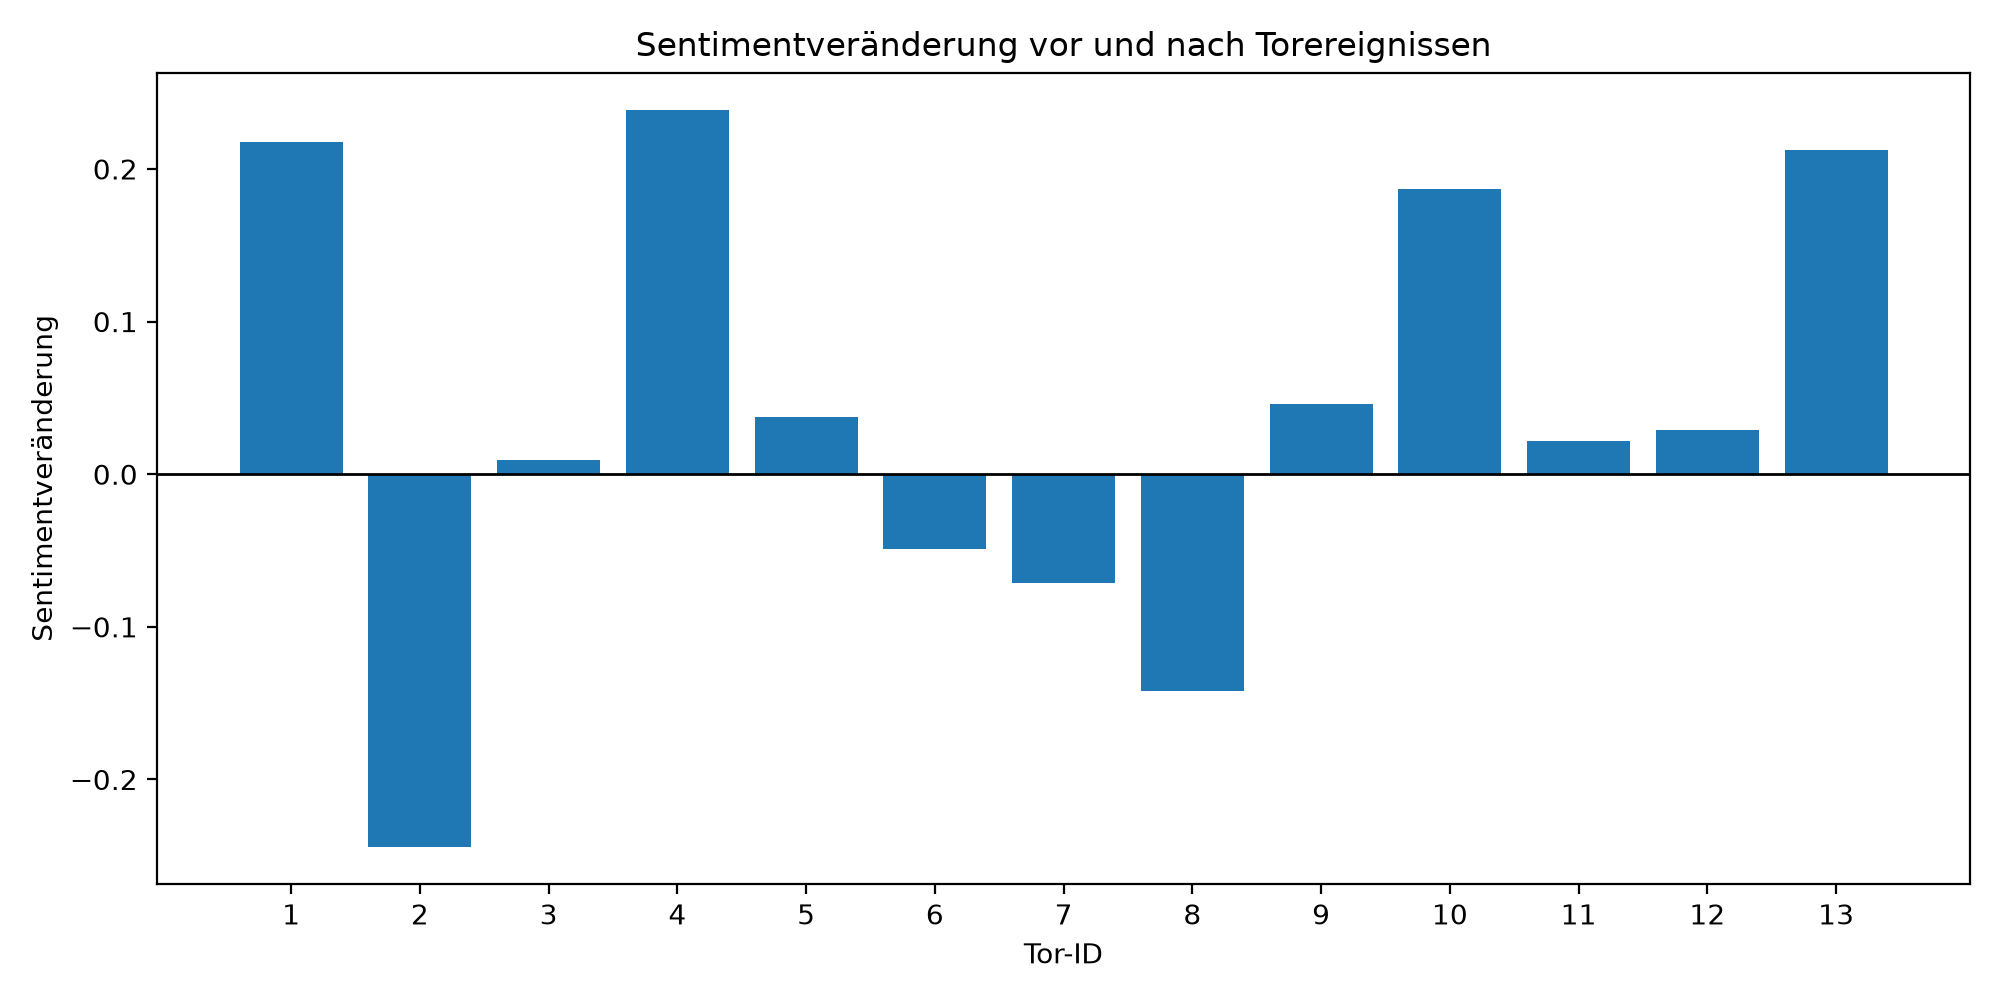
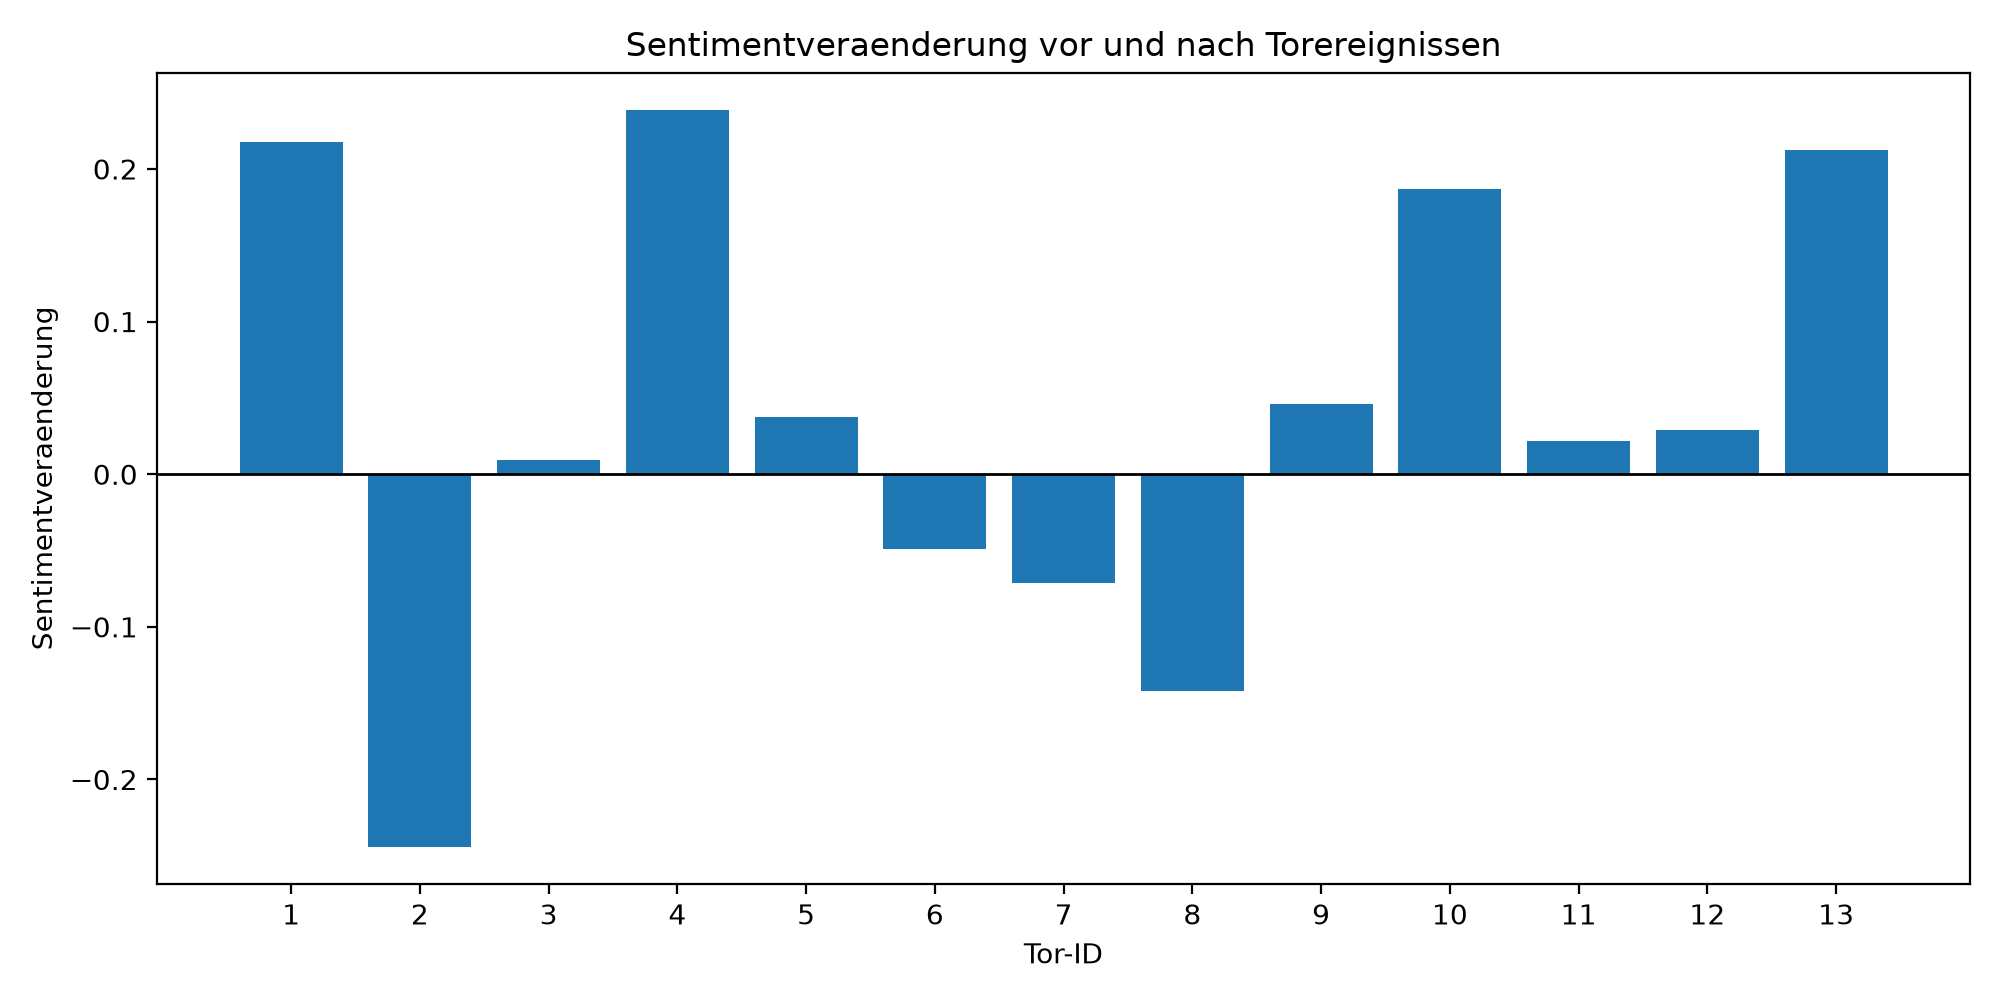
Add reproducible sentiment analysis script and goal detection

Changed region(s): [[0.31, 0.031, 0.744, 0.062], [0.0, 0.31, 0.031, 0.651]]

diff --git a/run_analysis.py b/run_analysis.py
@@ -1,0 +1,121 @@
+
+from pathlib import Path
+
+import pandas as pd
+import matplotlib.pyplot as plt
+
+from src.analyze import make_goal_windows
+
+
+# 1. Dateien laden
+project = Path(__file__).resolve().parent
+results = project / "results"
+results.mkdir(exist_ok=True)
+
+df = pd.read_csv(
+    project / "outputs" / "turkey_euro2024_sentiment.csv"
+)
+
+goals = pd.read_csv(
+    project / "annotations" / "goal_events_manual.csv"
+)
+
+
+# 2. Torfenster berechnen
+windows = make_goal_windows(df, goals)
+
+
+# 3. Sentiment vor und nach jedem Tor
+windows["phase"] = windows["relative_seconds"].apply(
+    lambda x: "vorher" if x < 0 else "nachher"
+)
+
+comparison = (
+    windows.groupby(["goal_id", "phase"])["sentiment_score"]
+    .mean()
+    .unstack()
+)
+
+comparison["veraenderung"] = (
+    comparison["nachher"] - comparison["vorher"]
+)
+
+comparison.reset_index().to_csv(
+    results / "sentiment_vorher_nachher_pro_tor.csv",
+    index=False
+)
+
+
+# 4. Sentimentverlauf pro Minute
+windows["minute_bin"] = (
+    windows["relative_seconds"] // 60
+).astype(int)
+
+per_goal = (
+    windows.groupby(["goal_id", "minute_bin"])["sentiment_score"]
+    .mean()
+    .reset_index()
+)
+
+trend = (
+    per_goal.groupby("minute_bin")["sentiment_score"]
+    .agg(["mean", "count"])
+    .reindex(range(-5, 5))
+)
+
+trend.reset_index().to_csv(
+    results / "sentimentverlauf_minuten.csv",
+    index=False
+)
+
+
+# 5. Balkendiagramm
+plt.figure(figsize=(10, 5))
+plt.bar(comparison.index, comparison["veraenderung"])
+plt.axhline(0, color="black", linewidth=1)
+
+plt.xlabel("Tor-ID")
+plt.ylabel("Sentimentveraenderung")
+plt.title("Sentimentveraenderung vor und nach Torereignissen")
+plt.xticks(comparison.index)
+plt.tight_layout()
+
+plt.savefig(
+    results / "sentiment_veraenderung_pro_tor.png",
+    dpi=200
+)
+plt.close()
+
+
+# 6. Verlaufsgrafik
+plt.figure(figsize=(10, 5))
+
+plt.plot(
+    trend.index + 0.5,
+    trend["mean"],
+    marker="o"
+)
+
+plt.axvline(0, color="red", linestyle="--", label="Tor")
+plt.axhline(0, color="gray", linewidth=1)
+
+plt.xlabel("Minuten relativ zum Tor")
+plt.ylabel("Mittlerer Sentiment-Score")
+plt.title("Sentimentverlauf im Umfeld von Torereignissen")
+plt.xticks(range(-5, 6))
+plt.legend()
+plt.grid(axis="y", alpha=0.2)
+plt.tight_layout()
+
+plt.savefig(
+    results / "sentiment_verlauf_torfenster.png",
+    dpi=200
+)
+plt.close()
+
+
+# 7. Kontrolle
+print("Analyse erfolgreich abgeschlossen!")
+print("Untersuchte Tore:", windows["goal_id"].nunique())
+print("Segmentzuordnungen:", len(windows))
+print("Ergebnisordner:", results)

diff --git a/src/detect_goals.py b/src/detect_goals.py
@@ -1,0 +1,10 @@
+def find_goal_candidates(df):
+    pattern = r"\b(?:tor|treffer|ausgleich)\b"
+
+    mask = df["text"].str.contains(
+        pattern,
+        case=False,
+        na=False
+    )
+
+    return df.loc[mask].copy()
